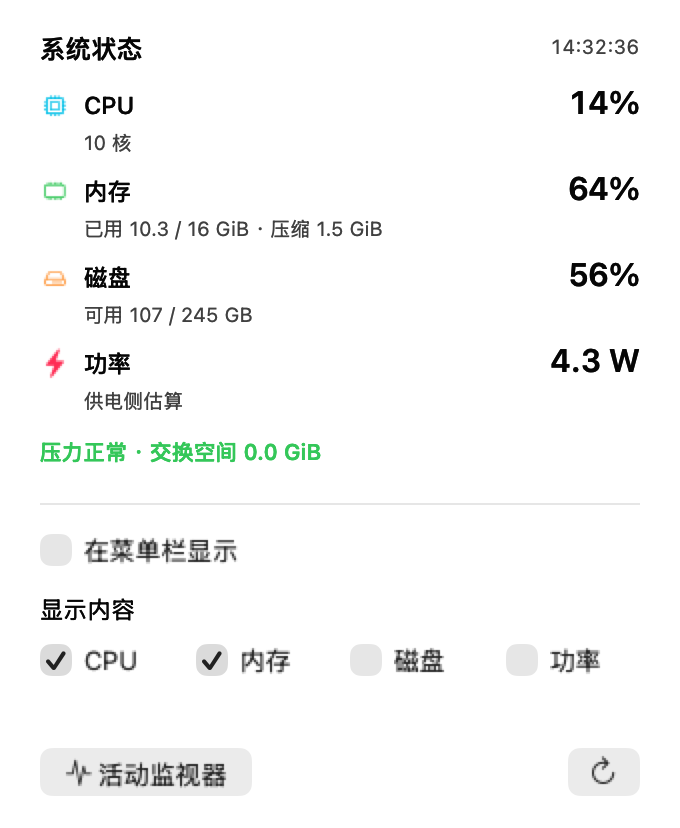
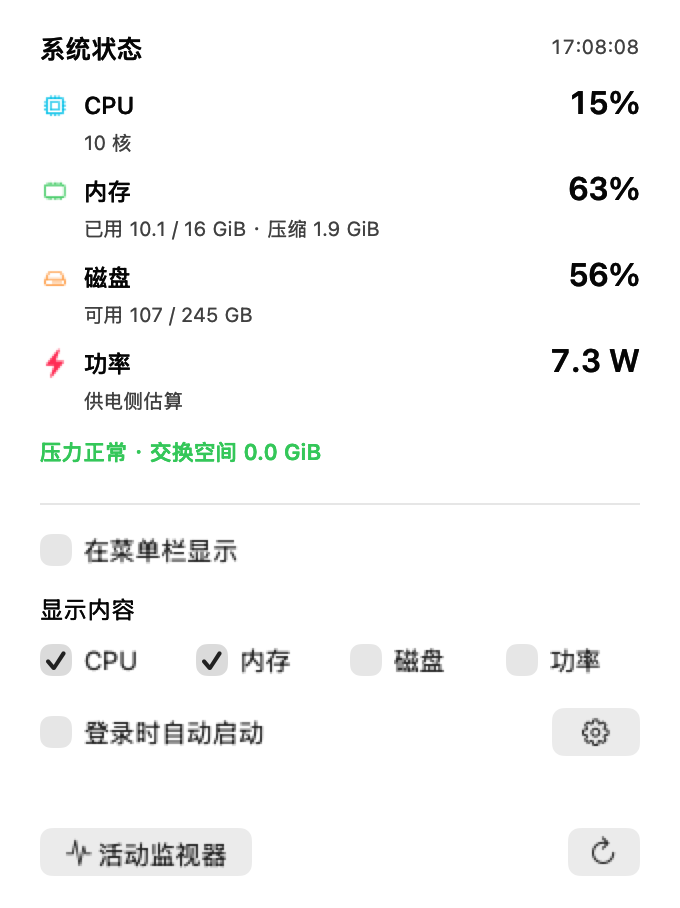
Add optional native launch at login setting

diff --git a/ResourceMonitorWindow.swift b/ResourceMonitorWindow.swift
@@ -1,4 +1,5 @@
 import AppKit
+import ServiceManagement
 
 enum MenuBarMetric: String, CaseIterable {
     case cpu, memory, disk, power
@@ -70,13 +71,16 @@ final class ResourceMonitorContentView: NSView {
     let metricsView = MenuBarContentView()
     let menuBarToggle = NSButton(checkboxWithTitle: "在菜单栏显示", target: nil, action: nil)
     let metricToggles = MenuBarMetric.allCases.map { NSButton(checkboxWithTitle: $0.label, target: nil, action: nil) }
+    let loginItemToggle = NSButton(checkboxWithTitle: "登录时自动启动", target: nil, action: nil)
     var onMenuBarChanged: ((Bool) -> Void)?
     var onMetricsChanged: ((Set<MenuBarMetric>) -> Void)?
+    var onLoginItemToggle: (() -> Void)?
+    var onLoginItemSettings: (() -> Void)?
     var onActivityMonitor: (() -> Void)?
     var onRefreshWidgets: (() -> Void)?
 
     init() {
-        super.init(frame: NSRect(x: 0, y: 0, width: 340, height: 414))
+        super.init(frame: NSRect(x: 0, y: 0, width: 340, height: 454))
         let separator = NSBox()
         separator.boxType = .separator
         let label = NSTextField(labelWithString: "显示内容")
@@ -92,6 +96,12 @@ final class ResourceMonitorContentView: NSView {
         }
         menuBarToggle.target = self
         menuBarToggle.action = #selector(changeMenuBar)
+        loginItemToggle.target = self
+        loginItemToggle.action = #selector(changeLoginItem)
+        loginItemToggle.allowsMixedState = true
+        let loginSettings = NSButton(image: NSImage(systemSymbolName: "gearshape", accessibilityDescription: "登录项设置")!, target: self, action: #selector(openLoginSettings))
+        loginSettings.bezelStyle = .rounded
+        loginSettings.toolTip = "打开系统登录项设置"
         let activity = NSButton(title: "活动监视器", target: self, action: #selector(openActivity))
         activity.bezelStyle = .rounded
         activity.image = NSImage(systemSymbolName: "waveform.path.ecg", accessibilityDescription: nil)
@@ -99,7 +109,7 @@ final class ResourceMonitorContentView: NSView {
         let refresh = NSButton(image: NSImage(systemSymbolName: "arrow.clockwise", accessibilityDescription: "刷新桌面小组件")!, target: self, action: #selector(refreshWidgets))
         refresh.bezelStyle = .rounded
         refresh.toolTip = "请求刷新桌面小组件"
-        for view in [metricsView, separator, menuBarToggle, label, choices, activity, refresh] {
+        for view in [metricsView, separator, menuBarToggle, label, choices, loginItemToggle, loginSettings, activity, refresh] {
             view.translatesAutoresizingMaskIntoConstraints = false
             addSubview(view)
         }
@@ -119,6 +129,12 @@ final class ResourceMonitorContentView: NSView {
             choices.leadingAnchor.constraint(equalTo: separator.leadingAnchor),
             choices.trailingAnchor.constraint(equalTo: separator.trailingAnchor),
             choices.heightAnchor.constraint(equalToConstant: 20),
+            loginItemToggle.leadingAnchor.constraint(equalTo: separator.leadingAnchor),
+            loginItemToggle.topAnchor.constraint(equalTo: choices.bottomAnchor, constant: 18),
+            loginItemToggle.trailingAnchor.constraint(lessThanOrEqualTo: loginSettings.leadingAnchor, constant: -8),
+            loginSettings.trailingAnchor.constraint(equalTo: separator.trailingAnchor),
+            loginSettings.centerYAnchor.constraint(equalTo: loginItemToggle.centerYAnchor),
+            loginSettings.widthAnchor.constraint(equalToConstant: 44),
             activity.leadingAnchor.constraint(equalTo: separator.leadingAnchor),
             activity.bottomAnchor.constraint(equalTo: bottomAnchor, constant: -16),
             refresh.trailingAnchor.constraint(equalTo: separator.trailingAnchor),
@@ -136,7 +152,26 @@ final class ResourceMonitorContentView: NSView {
         }
     }
 
+    func updateLoginItem(_ status: SMAppService.Status) {
+        switch status {
+        case .enabled:
+            loginItemToggle.title = "登录时自动启动"
+            loginItemToggle.state = .on
+        case .requiresApproval:
+            loginItemToggle.title = "登录时自动启动（待批准）"
+            loginItemToggle.state = .mixed
+        case .notRegistered, .notFound:
+            loginItemToggle.title = "登录时自动启动"
+            loginItemToggle.state = .off
+        default:
+            loginItemToggle.title = "登录时自动启动（不可用）"
+            loginItemToggle.state = .off
+        }
+    }
+
     @objc private func changeMenuBar() { onMenuBarChanged?(menuBarToggle.state == .on) }
+    @objc private func changeLoginItem() { onLoginItemToggle?() }
+    @objc private func openLoginSettings() { onLoginItemSettings?() }
     @objc private func changeMetrics() {
         let selected = MenuBarMetric.allCases.enumerated().compactMap { index, metric in
             metricToggles[index].state == .on ? metric : nil

diff --git a/NativeHost.swift b/NativeHost.swift
@@ -7,6 +7,8 @@ final class NativeHostDelegate: NSObject, NSApplicationDelegate, NSWindowDelegat
     private(set) var resourceView: ResourceMonitorContentView?
     private let preferences: MonitorPreferences
     private let monitor = LiveMetricsMonitor()
+    private let loginItem = LoginItemController()
+    private var launchedAtLogin = false
     private let metricsView = MenuBarContentView()
     private var snapshot: MetricsSnapshot?
     private var metricItems: [NSMenuItem] = []
@@ -17,14 +19,26 @@ final class NativeHostDelegate: NSObject, NSApplicationDelegate, NSWindowDelegat
         super.init()
     }
 
+    func applicationWillFinishLaunching(_ notification: Notification) {
+        launchedAtLogin = LoginLaunch.isLoginItem(NSAppleEventManager.shared().currentAppleEvent)
+    }
+
     func applicationDidFinishLaunching(_ notification: Notification) {
+        if CommandLine.arguments.contains("--login-item-status") {
+            print("Login item status: \(loginItem.status.rawValue)")
+            NSApp.terminate(nil)
+            return
+        }
         if CommandLine.arguments.contains("--widget-status") {
             reportConfigurations(exitAfter: true)
             return
         }
         configureApplicationMenu()
         applyMenuBarPreference()
-        showResourceMonitor()
+        launchedAtLogin = launchedAtLogin || LoginLaunch.isLoginItem(NSAppleEventManager.shared().currentAppleEvent)
+        if LoginLaunch.shouldShowWindow(isLoginItem: launchedAtLogin, menuBarEnabled: preferences.menuBarEnabled) {
+            showResourceMonitor()
+        }
         monitor.onSample = { [weak self] snapshot in
             guard let self else { return }
             self.snapshot = snapshot
@@ -77,6 +91,10 @@ final class NativeHostDelegate: NSObject, NSApplicationDelegate, NSWindowDelegat
     }
 
     func applicationWillTerminate(_ notification: Notification) { monitor.stop() }
+
+    func applicationDidBecomeActive(_ notification: Notification) {
+        resourceView?.updateLoginItem(loginItem.status)
+    }
 
     private func updateStatusItem() {
         guard let statusItem else { return }
@@ -139,6 +157,8 @@ final class NativeHostDelegate: NSObject, NSApplicationDelegate, NSWindowDelegat
                 self.preferences.metrics = metrics
                 self.updateStatusItem()
             }
+            view.onLoginItemToggle = { [weak self] in self?.toggleLoginItem() }
+            view.onLoginItemSettings = { [weak self] in self?.loginItem.openSettings() }
             view.onActivityMonitor = { [weak self] in self?.openActivityMonitor() }
             view.onRefreshWidgets = { [weak self] in self?.refreshWidgets() }
             view.updatePreferences(preferences)
@@ -153,9 +173,24 @@ final class NativeHostDelegate: NSObject, NSApplicationDelegate, NSWindowDelegat
             window.center()
             self.window = window
         }
+        resourceView?.updateLoginItem(loginItem.status)
         NSApp.setActivationPolicy(.regular)
         window?.makeKeyAndOrderFront(nil)
         NSApp.activate(ignoringOtherApps: true)
+    }
+
+    private func toggleLoginItem() {
+        let status = loginItem.status
+        do {
+            try loginItem.setEnabled(status != .enabled && status != .requiresApproval)
+        } catch {
+            let alert = NSAlert()
+            alert.messageText = "无法更改登录启动设置"
+            alert.informativeText = "请确认应用位于“应用程序”文件夹，也可在系统登录项设置中查看状态。\n\n\(error.localizedDescription)"
+            alert.addButton(withTitle: "好")
+            if let window { alert.beginSheetModal(for: window) }
+        }
+        resourceView?.updateLoginItem(loginItem.status)
     }
 
     func windowWillClose(_ notification: Notification) {

diff --git a/LoginItem.swift b/LoginItem.swift
@@ -1,0 +1,29 @@
+import AppKit
+import ServiceManagement
+
+final class LoginItemController {
+    private let service = SMAppService.mainApp
+
+    var status: SMAppService.Status { service.status }
+
+    func setEnabled(_ enabled: Bool) throws {
+        if enabled {
+            if status != .enabled && status != .requiresApproval { try service.register() }
+        } else if status == .enabled || status == .requiresApproval {
+            try service.unregister()
+        }
+    }
+
+    func openSettings() { SMAppService.openSystemSettingsLoginItems() }
+}
+
+enum LoginLaunch {
+    static func isLoginItem(_ event: NSAppleEventDescriptor?) -> Bool {
+        guard let event, event.eventID == AEEventID(kAEOpenApplication) else { return false }
+        return event.paramDescriptor(forKeyword: AEKeyword(keyAEPropData))?.enumCodeValue == OSType(keyAELaunchedAsLogInItem)
+    }
+
+    static func shouldShowWindow(isLoginItem: Bool, menuBarEnabled: Bool) -> Bool {
+        !isLoginItem || !menuBarEnabled
+    }
+}

diff --git a/README.md b/README.md
@@ -2,13 +2,13 @@
 
 原生 macOS 资源监视、可选菜单栏监控与桌面小组件，显示 CPU、内存、磁盘占用及供电功率。资源监视是普通窗口，不会置顶；菜单栏是否显示由用户选择，桌面小组件支持小、中、大三种尺寸。
 
-当前版本：**2.3.0**。安装后的应用和小组件名称均为 **“系统状态”**。
+当前版本：**2.4.0**。安装后的应用和小组件名称均为 **“系统状态”**。
 
 ## 下载安装
 
-**[下载安装包：MacPulse Widget 2.3.0（M 系列 Mac）](https://github.com/qwer8856/MACPulse-widget/releases/download/v2.3.0/MACPulse-Widget-v2.3.0-macOS-arm64.zip)**
+**[下载安装包：MacPulse Widget 2.4.0（M 系列 Mac）](https://github.com/qwer8856/MACPulse-widget/releases/download/v2.4.0/MACPulse-Widget-v2.4.0-macOS-arm64.zip)**
 
-[版本发布页与校验文件](https://github.com/qwer8856/MACPulse-widget/releases/tag/v2.3.0)
+[版本发布页与校验文件](https://github.com/qwer8856/MACPulse-widget/releases/tag/v2.4.0)
 
 需要 Apple Silicon Mac（M 系列）和 macOS 14 或更新版本。
 
@@ -16,6 +16,7 @@
 2. 将“系统状态.app”拖入“应用程序”文件夹。
 3. 启动“系统状态”后打开“资源监视”窗口，数据约每秒更新。需要屏幕右上角显示时，勾选“在菜单栏显示”，再分别勾选 CPU、内存、磁盘、功率，自由组合。
 4. 需要桌面小组件时，在桌面空白处右键，打开“编辑小组件”，搜索 **“系统状态”**，选择尺寸并添加。
+5. 需要开机后自动运行时，勾选“登录时自动启动”；不需要时取消勾选。
 
 当前安装包使用本地临时签名，未经 Apple 开发者签名和公证，首次打开可能被 macOS 安全策略拦截；该限制不因从 GitHub 下载而消失。仅在本机验证过，其他机型的功率数据支持情况可能不同。
 
@@ -49,6 +50,10 @@
 也可在菜单栏的“显示内容”子菜单分别勾选指标，窗口中的复选框会同步变化；选择“仅图标”可清空组合。指标按 CPU、内存、磁盘、功率的顺序显示，菜单栏宽度随所选组合调整，同一组合的数值变化不会使宽度跳动。
 
 未启用菜单栏时，关闭资源监视窗口即退出应用；启用后，关闭窗口会保留菜单栏监控，点击菜单中的“资源监视”可重新打开窗口。选择“关闭菜单栏显示”会移除菜单栏项目并回到窗口。
+
+**登录时自动启动默认关闭，由用户自行选择。** 开启后，macOS 会在当前用户登录时启动应用；若已启用菜单栏，自动启动时仅显示菜单栏，未启用菜单栏则打开资源监视窗口。手动打开应用仍会显示窗口。
+
+自启使用 macOS 原生登录项，可在应用内取消，也可在“系统设置 → 通用 → 登录项与扩展”中管理。开关显示系统的实际状态；如显示“待批准”，点击旁边的齿轮进入系统登录项设置进行确认。仅开启自启不会自动开启菜单栏显示。
 
 资源监视窗口和菜单栏约每秒读取 CPU、内存、磁盘和功率，菜单展开期间也会更新。功率传感器本身的更新可能更慢。退出应用后，桌面小组件仍由系统独立调度采样；不同显示位置的采样时间不同，读数可能暂时不同。
 
